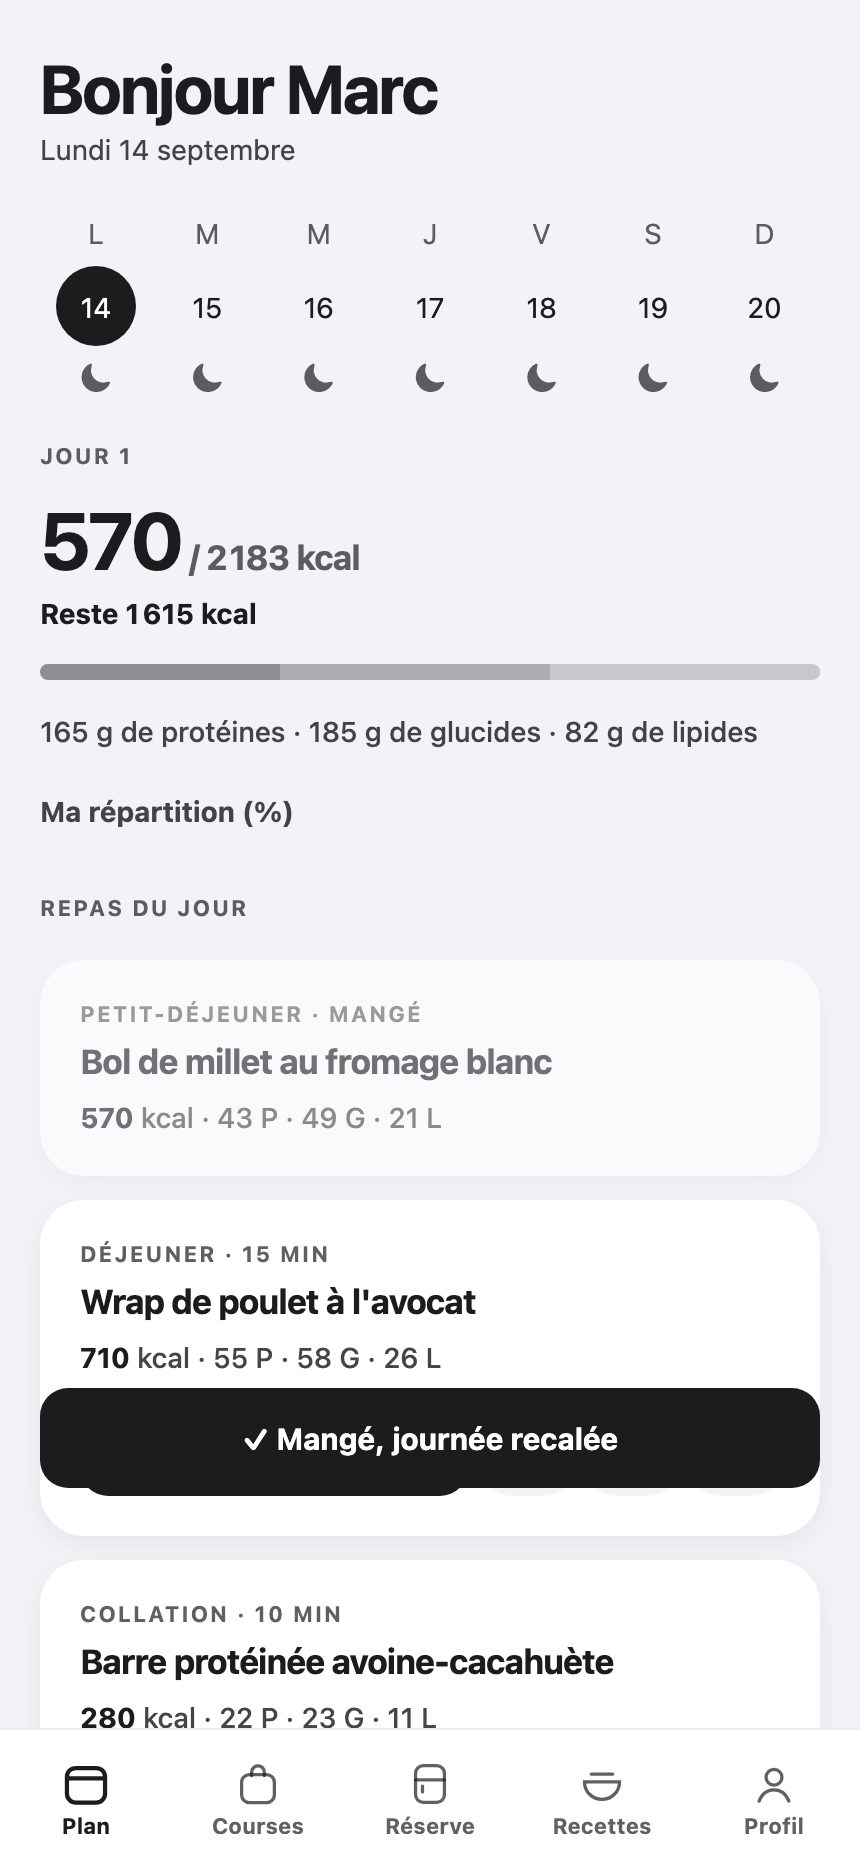
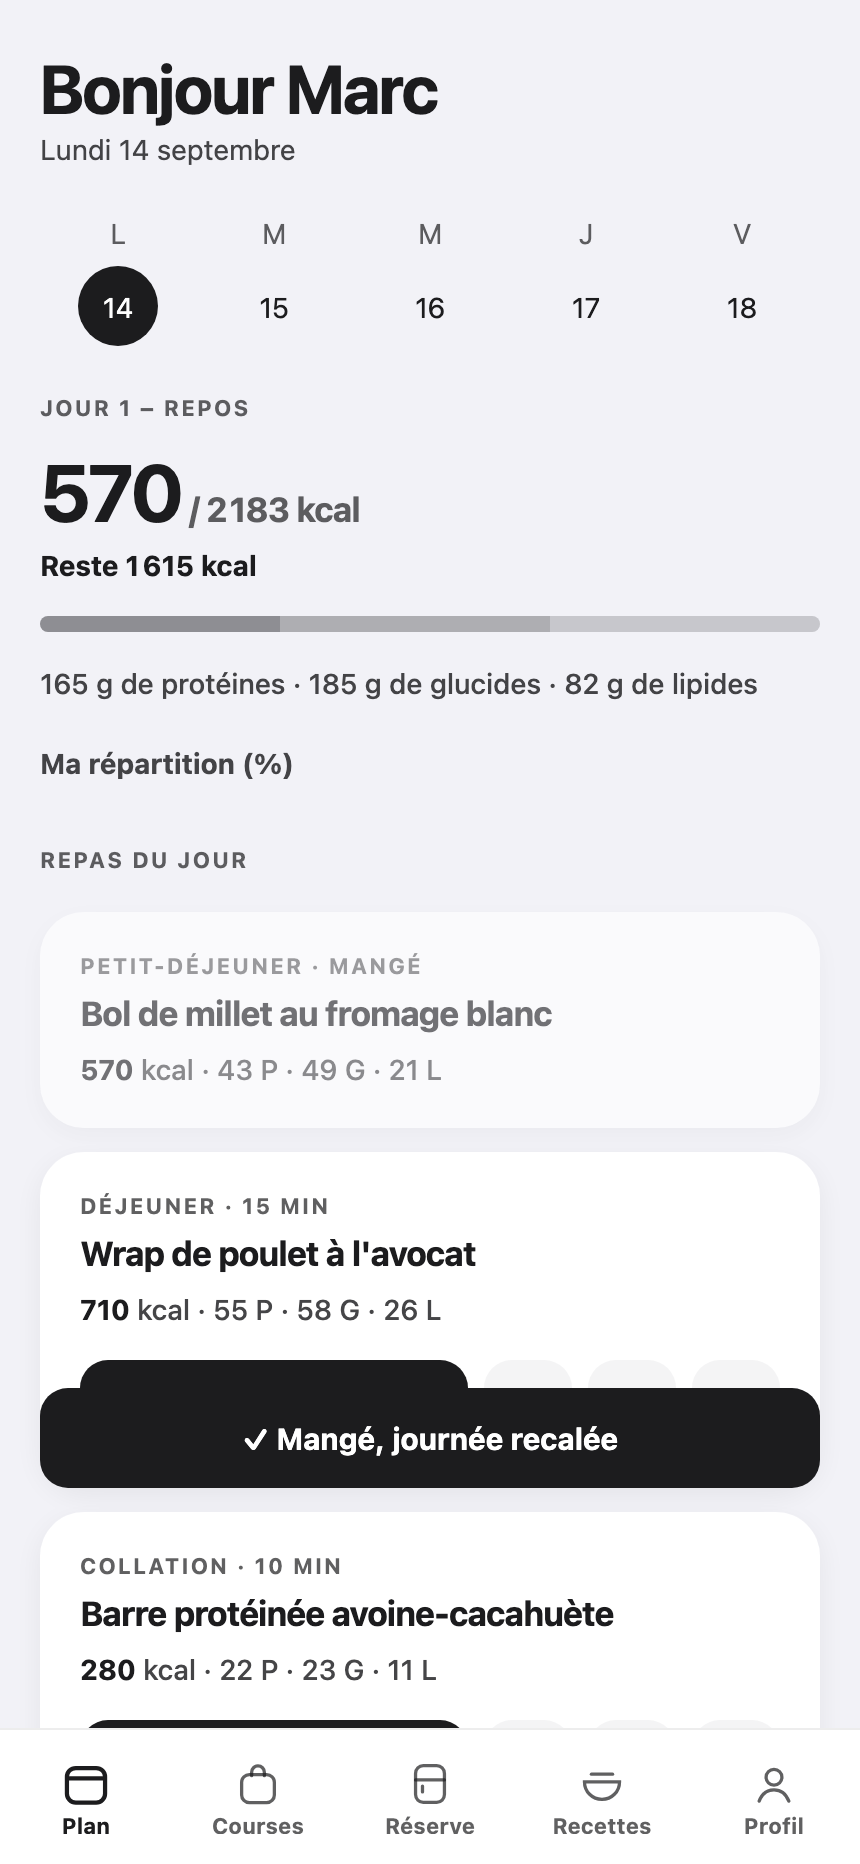
feat(plan) : plus de lune sur les jours de repos, « Jour 3 – Repos » dans l'en-tête
Capture d'accueil du Plan régénérée (clair et sombre) pour qu'elle montre l'écran réel.

diff --git a/kyroz-app/app/(tabs)/plan.tsx b/kyroz-app/app/(tabs)/plan.tsx
@@ -5,7 +5,6 @@ import {
   View, Text, StyleSheet, ScrollView, TouchableOpacity, ActivityIndicator, RefreshControl, AppState,
 } from 'react-native';
 import { SafeAreaView } from 'react-native-safe-area-context';
-import { Ionicons } from '@expo/vector-icons';
 import AsyncStorage from '@react-native-async-storage/async-storage';
 import { useTheme, ThemePalette, Radius, Spacing, Type, Trait, Icone, OPACITE_PRESSION , Fond } from '../../constants/theme';
 import { useCollapsingTitle, CompactTitleBar } from '../../components/CollapsingTitle';
@@ -1014,11 +1013,8 @@ export default function PlanScreen() {
                     <View style={[s.dayDot, on && { backgroundColor: t.accent }]}>
                       <Text style={[s.dayNum, { color: on ? t.onAccent : t.text }]}>{meta.num}</Text>
                     </View>
-                    {/* Hauteur réservée même sans lune : sinon la rangée se décale
-                        verticalement selon qu'un jour de repos est présent ou non. */}
-                    <View style={s.dayMoon}>
-                      {repos && <Ionicons name="moon" size={Icone.petite} color={t.textTertiary} />}
-                    </View>
+                    {/* La LUNE des jours de repos a été retirée le 2026-09-23 (décision
+                        fondateur) : le repos se lit dans l'en-tête « Jour 3 – Repos ». */}
                   </Presse>
                 );
               })}
@@ -1030,7 +1026,7 @@ export default function PlanScreen() {
                 liste ». */}
             {dayMacros && (
               <View>
-                <SectionLabel t={t}>Jour {selectedDay}</SectionLabel>
+                <SectionLabel t={t}>Jour {selectedDay}{restDayNums.has(selectedDay) ? ' – Repos' : ''}</SectionLabel>
                 {/* 🔴 LE BANDEAU « JOUR DE REPOS · … » A ÉTÉ RETIRÉ LE 2026-08-25
                     (décision fondateur). Il disait vrai — il avait même été corrigé
                     deux fois pour ça : « (mêmes kcal) » était devenu faux avec la
@@ -1042,8 +1038,9 @@ export default function PlanScreen() {
                     de cet écran n'explique pourquoi un jour de repos affiche moins de
                     calories. La bulle de tuto qui en parlait est partie le même jour,
                     et la notice des Paramètres des repas aussi. Il reste :
-                      · la LUNE de la rangée de jours, qui dit QUE c'est un jour de
-                        repos (avec son `accessibilityLabel`), mais pas pourquoi ;
+                      · « – Repos » dans l'en-tête du jour (la lune de la rangée l'a
+                        remplacé le 2026-09-23), qui dit QUE c'est un jour de repos,
+                        mais pas pourquoi ;
                       · `FirstPlanReveal`, une fois, au tout premier plan.
                     ⚠ Le moteur, lui, n'a pas changé : `dayTargetKcal` module toujours
                     le budget sur la dépense du jour. C'est le TEXTE qui part, pas la
@@ -1408,10 +1405,6 @@ function makeStyles(t: ThemePalette) {
     // taille FIXE — c'est la condition posée par lib/__tests__/rayonsDA.test.ts.
     dayDot: { width: 40, height: 40, borderRadius: Radius.pill, alignItems: 'center', justifyContent: 'center' },
     dayNum: {  },
-    // ⚠ La hauteur SUIT la taille de l'icône (2026-08-14). Elle valait 13 pour
-    // une lune de 16 : la lune était rognée en haut et en bas, et ça ne se voit
-    // que sur une capture — un croissant tronqué reste un croissant plausible.
-    dayMoon: { height: Icone.petite, alignItems: 'center', justifyContent: 'center' },
     extraRow: { flexDirection: 'row', justifyContent: 'space-between', alignItems: 'center', marginTop: Spacing.md },
     // Les deux actions du jour partagent EXACTEMENT le même gabarit : elles sont de
     // même rang, donc rien ne doit laisser croire que l'une prime sur l'autre.

diff --git a/kyroz-app/CLAUDE.md b/kyroz-app/CLAUDE.md
@@ -899,8 +899,9 @@ ci-dessus, « aucune répartition n'est inventée »). Mesuré sur le moteur, H 
 plus bas démentait donc la phrase, sur l'écran le plus regardé de l'app.
 ➡ La phrase passe désormais par le même prédicat que la bulle de visite guidée qui parle
 de la même chose (§8, `moduleParVolume` : amplitude ≥ 40 kcal, seuil et calcul partagés
-avec `FirstPlanReveal`). ⚠ **Un jour de repos reste un jour de repos** — la lune de la
-rangée de jours ne bouge pas : c'est une déclaration de l'utilisateur, elle est vraie. Ce
+avec `FirstPlanReveal`). ⚠ **Un jour de repos reste un jour de repos** — l'en-tête
+« Jour 3 – Repos » le dit (il a remplacé la lune de la rangée de jours le 2026-09-23) :
+c'est une déclaration de l'utilisateur, elle est vraie. Ce
 qui était faux, c'est la promesse CALORIQUE accrochée derrière.
 ➡ Et c'est la **capture des deux textes côte à côte** qui l'a montré, pas la relecture :
 la bulle se conditionnait déjà, l'écran non.
